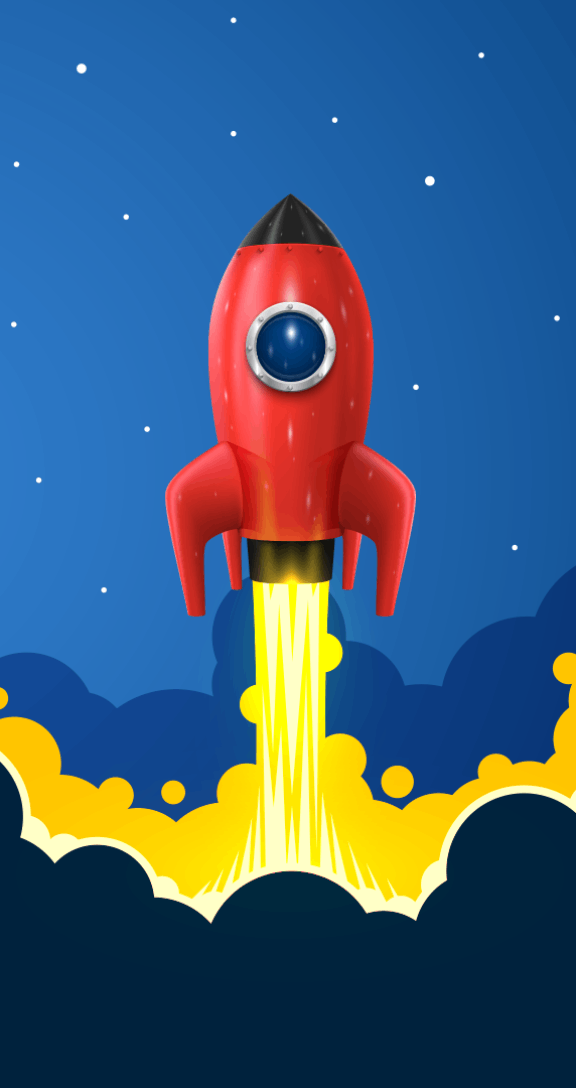
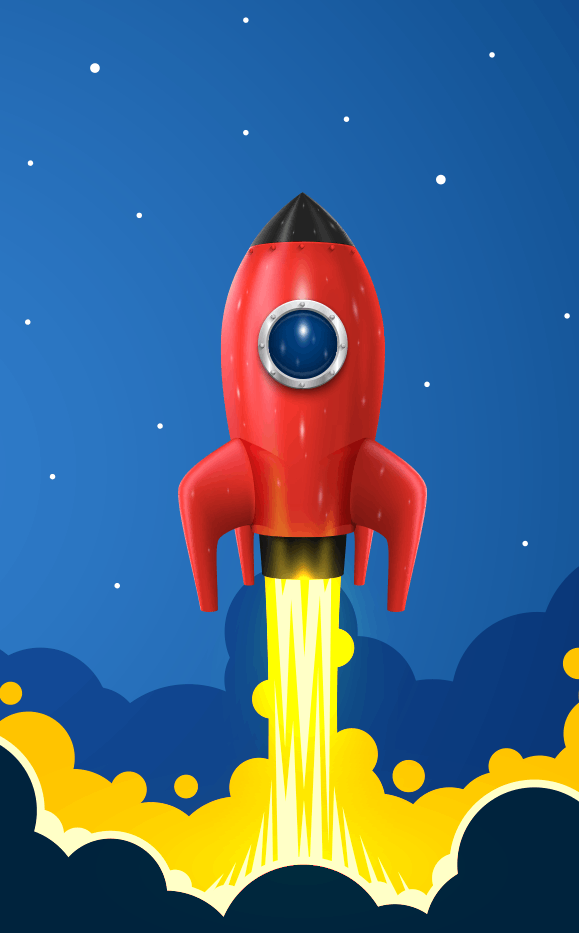
added breakpoint background images

diff --git a/css/site.css b/css/site.css
@@ -66,12 +66,15 @@ body {
 body {
     display: flex;
     flex-direction: column;
-    background-image: url("/img/LandingPage_1920.png");
+    background-image: url("/img/LandingPage_576.png");
+    position: relative;
+    top: 40px;
     background-position: top right;
     background-repeat: no-repeat;
     background-color: var(--cf-darkblue);
 
     font-family: var(--cf-body-font);
+    text-align: justify;
 }
 
 .content {
@@ -90,6 +93,11 @@ body {
 /* // Small devices (landscape phones, 576px and up) */
 @media (min-width: 576px) {
 
+    body {
+        background-image: url("/img/LandingPage_768.png");
+        background-position: top right;
+        background-repeat: no-repeat;
+    }
 
     .mainTitle {
         font-size: 2.6rem;
@@ -105,6 +113,13 @@ body {
 
 /* // Medium devices (tablets, 768px and up) */
 @media (min-width: 768px) {
+
+    body {
+        background-image: url("/img/LandingPage_992.png");
+        background-position: top right;
+        background-repeat: no-repeat;
+    }
+
     .mainTitle {
         font-size: 3rem;
         line-height: 2.2rem;
@@ -119,6 +134,13 @@ body {
 
 /* // Large devices (desktops, 992px and up) */
 @media (min-width: 992px) {
+
+    body {
+        background-image: url("/img/LandingPage_1200.png");
+        background-position: top right;
+        background-repeat: no-repeat;
+    }
+
     .mainTitle {
         font-size: 3.5rem;
         line-height: 2.5rem;
@@ -133,6 +155,13 @@ body {
 
 /* // X-Large devices (large desktops, 1200px and up) */
 @media (min-width: 1200px) {
+
+    body {
+        background-image: url("/img/LandingPage_1400.png");
+        background-position: top right;
+        background-repeat: no-repeat;
+    }
+
     .mainTitle {
         font-size: 4.5rem;
         line-height: 3.2rem;
@@ -147,6 +176,13 @@ body {
 
 /* // XX-Large devices (larger desktops, 1400px and up) */
 @media (min-width: 1400px) {
+
+    body {
+        background-image: url("/img/LandingPage_1920.png");
+        background-position: top right;
+        background-repeat: no-repeat;
+    }
+
     .mainTitle {
         font-size: 4.5rem;
         line-height: 3.2rem;
